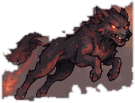
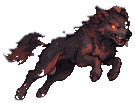
fix(art): 狂奔感染者貼圖去掉殘留背景、霓虹招牌不再是實心洋紅色塊（v118）
- assets/xian/runner.png：當初裁圖去背留下一圈灰粉色背景霧，場上看起來像
  一塊矩形底色；從邊緣洪水填充清掉，連同耳後橘色殘條與尾巴拖出的餘燼
  （未重新壓回 256 色調色盤，6 KB → 10 KB）
- Terrain.js：billboard 地標亮著的那片從整塊實心 #ff2d95 改成深色面板＋
  霓虹外框＋三條燈管，俯視時不再像還沒畫的佔位色塊
- version.json：assetsKB 9427 → 9431
- verify-art / verify-levels / verify-enemies-terrain / verify-pwa 全過，
  audit-assets --strict 綠燈

diff --git a/js/systems/Terrain.js b/js/systems/Terrain.js
@@ -644,9 +644,18 @@ function drawLandmarkArt(x, kind) {
       x.fillRect(-46, 20, 10, 72);
       x.fillRect(36, 20, 10, 72);
       x.fillRect(-52, 12, 104, 14);
+      // 亮著的那片：深色面板 + 霓虹外框 + 三條燈管。
+      // 原本是整片實心洋紅，俯視看起來像一塊還沒畫的佔位色塊。
+      x.fillStyle = '#2a1030';
+      x.fillRect(-48, -46, 44, 56);
+      x.strokeStyle = '#ff2d95';
       x.fillStyle = '#ff2d95';
       glow('#ff2d95');
-      x.fillRect(-48, -46, 44, 56);
+      x.lineWidth = 3;
+      x.strokeRect(-46.5, -44.5, 41, 53);
+      x.fillRect(-40, -34, 28, 5);
+      x.fillRect(-40, -21, 18, 5);
+      x.fillRect(-40, -8, 24, 5);
       x.shadowBlur = 0;
       x.fillStyle = 'rgba(120,140,170,0.35)';
       x.fillRect(6, -46, 44, 56);

diff --git a/sw.js b/sw.js
@@ -22,7 +22,7 @@
 // FALLBACK_VERSION，tools/verify-pwa.mjs 會比對兩者），PWA 下次開啟就會換版。
 
 // 版本來源：根目錄 version.json。FALLBACK 只在離線安裝、抓不到 version.json 時使用。
-const FALLBACK_VERSION = 'gaga-v117';
+const FALLBACK_VERSION = 'gaga-v118';
 const VERSION_URL = './version.json';
 
 async function resolveCacheVersion() {
